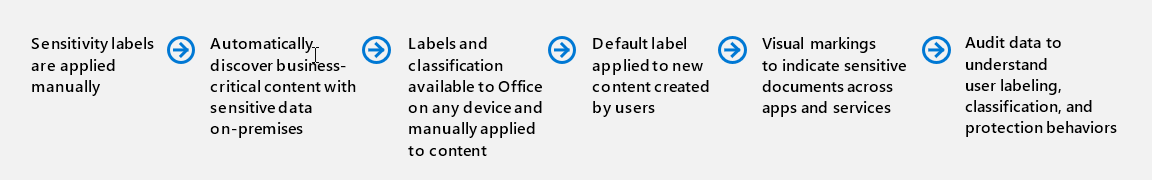
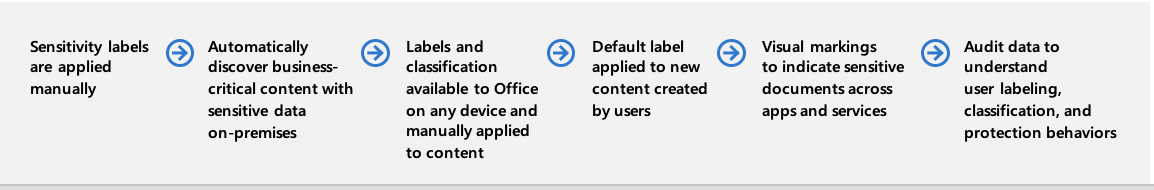
Various fixes for data, replacement of images with originals

diff --git a/zero-trust/data.md b/zero-trust/data.md
@@ -222,13 +222,14 @@ You can use the Azure Information Protection (AIP) scanner to automatically clas
 
 Take this step:
 
- - Configure the scanner to [use **enforce** mode and automatically classify, label, and protect files](https://docs.microsoft.com/azure/information-protection/deploy-aip-scanner with sensitive data.
+ - Configure the scanner to [use **enforce** mode and automatically classify, label, and protect files](https://docs.microsoft.com/azure/information-protection/deploy-aip-scanner) with sensitive data.
 
 
 <table border="0">
    <tr>
       <td>
-         <p><img src="./media/icon-additional-deployment.png" alt="Checklist icon with two checkmarks."></p>
+         <br/>
+		 <p><img src="./media/icon-additional-deployment.png" alt="Checklist icon with two checkmarks."></p>
       </td>
       <td>
          <h2>Additional deployment objectives</h2>
@@ -292,6 +293,7 @@ The following guidance will help you get started with sensitivity labels.
 
 :::image type="content" source="./media/steps-box-data-5.png" alt-text="Diagram of the steps within phase 5 of the additional deployment objectives." border="true":::
 
+
 #### Sensitivity labels are applied manually
 
 Defining the right label taxonomy and protection policies is the most critical step in an Information Protection deployment, so start **with creating a labeling strategy** that reflects your organization's sensitivity requirements for information.
@@ -350,7 +352,7 @@ Take this step:
 
 After a sensitivity label is created and applied to an email or document, any configured protection settings for that label are enforced on the content. When you use Office apps, watermarks can be applied to headers or footers of emails or documents that have the label applied.
 
-:::image type="content" source="./media/data/screenshot-office-document-header-watermark-highly-confidential.png" alt-text="Screenshot of an Office document with a watermark and header about confidentiality." border="false":::
+:::image type="content" source="./media/screenshot-office-document-header-watermark-highly-confidential.png" alt-text="Screenshot of an Office document with a watermark and header about confidentiality." border="false":::
 
 Take this step:
 
@@ -373,7 +375,7 @@ Follow these steps:
 
 [Microsoft Information Protection](https://www.microsoft.com/security/business/information-protection) (MIP) is a comprehensive, flexible, integrated, and extensible approach to protecting sensitive data.
 
-:::image type="content" source="./media/data/diagram-microsoft-information-protection-corporate-egress-highlighted.png" lightbox="./media/data/diagram-microsoft-information-protection-corporate-egress-highlighted.png" alt-text="Diagram of Microsoft Information Protection for data with Corporate Egress highlighted." border="false":::
+:::image type="content" source="./media/diagram-microsoft-information-protection-corporate-egress-highlighted.png" lightbox="./media/diagram-microsoft-information-protection-corporate-egress-highlighted.png" alt-text="Diagram of Microsoft Information Protection for data with Corporate Egress highlighted." border="false":::
 
 For further information or help with implementation, please contact your Customer Success team.
 
